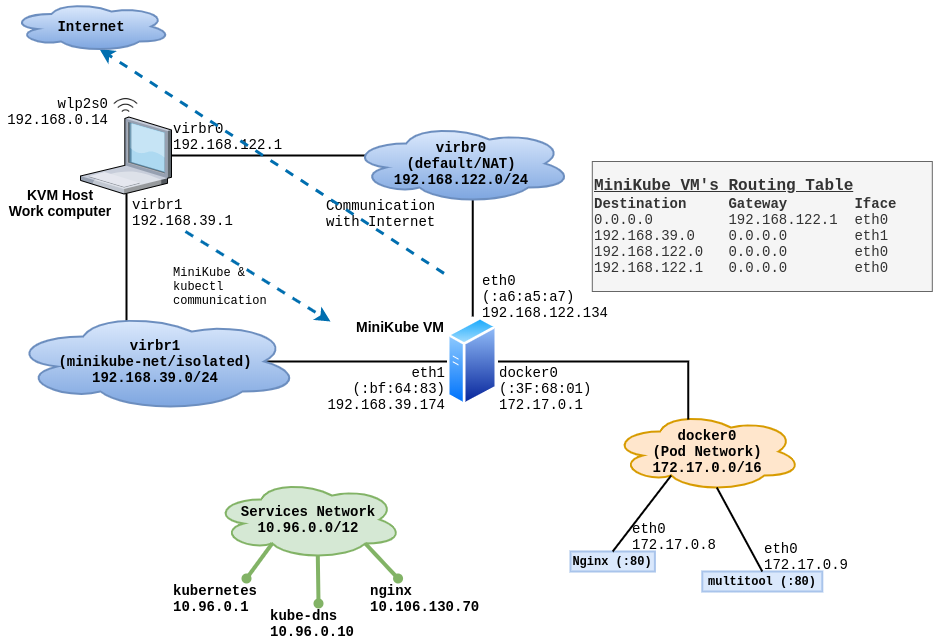
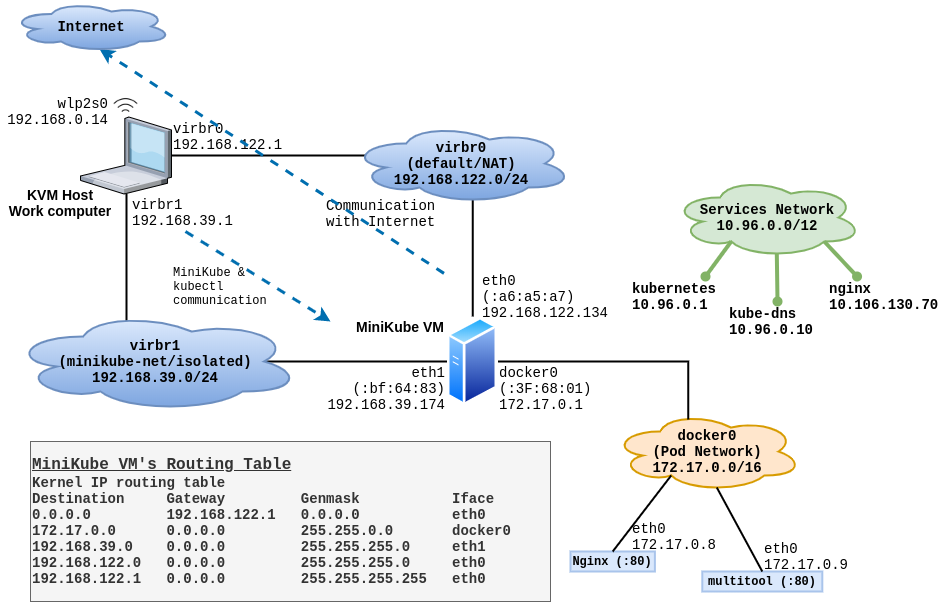
updated diagram for kvm and hyperv

diff --git a/Minikube-Internals-Fedora.md b/Minikube-Internals-Fedora.md
@@ -9,8 +9,8 @@ By default, KVM (libvirt) sets up a virtual network on your Linux host, and call
 
 When you install `minikube` , it creates an additional **isolated** virtual network inside KVM, and connects the minikube VM to both of these networks. i.e. it attaches itself to the NAT network as well as the isolated network. Like so:
 
-| ![images/minikube-network.png](images/minikube-network.png) |
-| ----------------------------------------------------------- |
+| ![images/minikube-network-kvm.png](images/minikube-network-kvm.png) |
+| ------------------------------------------------------------------- |
 
 
 # Why minikube uses two different networks on the host?

diff --git a/Minikube-on-Fedora.md b/Minikube-on-Fedora.md
@@ -5,8 +5,8 @@ The emphasis is on having minikube *running as a VM*, (not as a process on docke
 
 Here is how the minikube VM setup looks like:
 
-| ![images/minikube-network.png](images/minikube-network.png) |
-| ----------------------------------------------------------- |
+| ![images/minikube-network-kvm.png](images/minikube-network-kvm.png) |
+| ------------------------------------------------------------------- |
 
 ## What do you need to get it to work?
 You need decently powered computer, with following specs:

diff --git a/Minikube-on-Windows.md b/Minikube-on-Windows.md
@@ -5,7 +5,7 @@ The emphasis is on having minikube *running as a VM*, (not as a process on docke
 
 Here is how the minikube VM setup looks like:
 
-| ![images/minikube-network-windows-hyperv.png](images/minikube-network-windows-hyperv.png) |
+| ![images/minikube-network-hyperv.png](images/minikube-network-hyperv.png) |
 | ----------------------------------------------------------------------------------------- |
 
 ## What do you need to get it to work?
